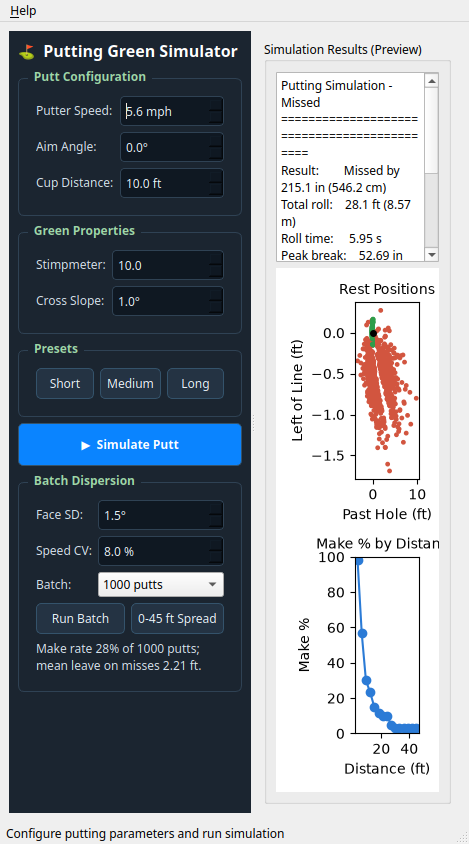
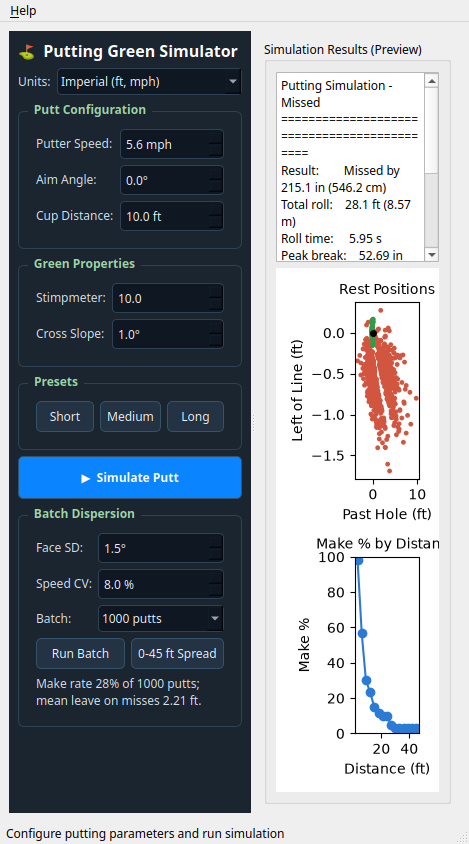
feat(putting): replot batch results on a units change; refresh screenshots (#14459)
Switching units left the batch scatter and spread in the old units until
the next run. BatchPanel keeps the last report per chart and redraw()
replots them (a running job redraws on completion); set_unit_system calls
it. Screenshots retaken on main with the #14457 units selector, plus
before grabs (panel absent, as on main).

Part of #14459

Changed region(s): [[0.0299, 0.0616, 0.5373, 0.8626]]

diff --git a/src/tools/putting_green_gui/_batch_panel.py b/src/tools/putting_green_gui/_batch_panel.py
@@ -1,12 +1,10 @@
 """Batch dispersion panel for the Putting Green Simulator (#14459, epic #14452).
 
-Runs the shared dispersion service
-(:mod:`src.shared.python.putting_analytics.service_dispersion`) on the green
-the user has dialled in: a batch of 40/100/1000 putts with stroke noise
-(face-angle SD and speed CV) plotted as rest positions around the hole, and
-the 3-45 ft make-% spread. No physics lives here; the panel turns the
-widget's :class:`PuttConfig` into service arguments and draws the answer in
-the user's chosen units.
+Runs :mod:`src.shared.python.putting_analytics.service_dispersion` on the
+dialled green: a 40/100/1000-putt batch with stroke noise (face SD, speed CV)
+plotted around the hole, and the 3-45 ft make-% spread. No physics lives
+here; the panel maps :class:`PuttConfig` to service arguments and plots the
+answer in the user's units.
 """
 
 from __future__ import annotations
@@ -89,10 +87,9 @@ class _Job(QRunnable):
 class BatchPanel(QGroupBox):
     """Stroke-noise inputs, batch and spread buttons, and the result plot.
 
-    ``config`` returns the widget's current putt; ``units`` its display units.
-    The buttons run the service on a worker thread (:meth:`start_batch`,
-    :meth:`start_spread`); :meth:`run_batch` and :meth:`run_spread` are the
-    synchronous equivalents. The plot canvas is :attr:`canvas`.
+    ``config`` returns the current putt, ``units`` the display units. Buttons
+    run the service on a worker (:meth:`start_batch`, :meth:`start_spread`);
+    :meth:`run_batch`/:meth:`run_spread` are synchronous; plots: :attr:`canvas`.
     """
 
     def __init__(
@@ -140,7 +137,7 @@ class BatchPanel(QGroupBox):
         self.canvas.setMinimumSize(160, 220)
         self.canvas.installEventFilter(self)
         self._stacked = False
-        self._spread: list[tuple[float, float]] = []
+        self._shown: dict[str, dict[str, Any]] = {}  # last report per chart
 
     @property
     def size_combo(self) -> QComboBox:
@@ -190,6 +187,7 @@ class BatchPanel(QGroupBox):
     def show_batch(self, report: dict[str, Any]) -> None:
         """Plot a dispersion report's rest positions and summarise it."""
         self._set_busy(False)
+        self._shown["batch"] = report
         scale, unit = self._length_scale()
         ax = self._scatter_ax
         ax.clear()
@@ -212,9 +210,7 @@ class BatchPanel(QGroupBox):
     def show_spread(self, report: dict[str, Any]) -> None:
         """Plot a make-spread report's make % against distance."""
         self._set_busy(False)
-        self._spread = list(
-            zip(report["distances_ft"], report["make_rate"], strict=True)
-        )
+        self._shown["spread"] = report
         scale, unit = self._length_scale()
         ax = self._spread_ax
         ax.clear()
@@ -229,6 +225,12 @@ class BatchPanel(QGroupBox):
         ax.set_ylim(0, 100)
         ax.set_title("Make % by Distance", fontsize=10)
         self.canvas.draw_idle()
+
+    def redraw(self) -> None:
+        """Replot the last results in the current units; a running job redraws."""
+        if not self.is_busy():
+            for kind, report in list(self._shown.items()):
+                (self.show_batch if kind == "batch" else self.show_spread)(report)
 
     def eventFilter(self, obj: QObject | None, event: QEvent | None) -> bool:
         if obj is self.canvas and event is not None:
@@ -266,7 +268,8 @@ class BatchPanel(QGroupBox):
         return [float(x) for x in offsets[:, 0]]
 
     def spread_points(self) -> list[tuple[float, float]]:
-        return list(self._spread)
+        report = self._shown.get("spread", {"distances_ft": [], "make_rate": []})
+        return list(zip(report["distances_ft"], report["make_rate"], strict=True))
 
     def _start(
         self,

diff --git a/tests/tools/putting_green_gui/test_batch_panel.py b/tests/tools/putting_green_gui/test_batch_panel.py
@@ -79,8 +79,7 @@ def test_flat_green_has_no_fall_direction() -> None:
 
 def test_panel_offers_the_studio_batch_sizes(panel: BatchPanel) -> None:
     combo = panel.size_combo
-    assert [combo.itemData(i) for i in range(combo.count())] == list(BATCH_SIZES)
-    assert BATCH_SIZES == (40, 100, 1000)
+    assert [combo.itemData(i) for i in range(combo.count())] == [40, 100, 1000]
 
 
 def test_batch_shows_the_service_answer(panel: BatchPanel) -> None:
@@ -99,6 +98,16 @@ def test_scatter_is_drawn_in_the_chosen_units(qapp: QApplication) -> None:
         xs = p.scatter_x()
         scale = 1.0 if system == UnitSystem.IMPERIAL else _FT_M
         assert xs[0] == pytest.approx(report["rest_x_ft"][0] * scale)
+
+
+def test_a_unit_change_replots_the_last_batch(qapp: QApplication) -> None:
+    units = [UnitSystem.IMPERIAL]
+    p = BatchPanel(lambda: _CONFIG, lambda: units[0])
+    p.size_combo.setCurrentIndex(0)
+    p.run_batch()
+    units[0] = UnitSystem.METRIC
+    p.redraw()
+    assert p.scatter_axis_label().endswith("(m)")
 
 
 def test_spread_plots_the_service_make_rates(panel: BatchPanel) -> None:

diff --git a/src/tools/putting_green_gui/gui.py b/src/tools/putting_green_gui/gui.py
@@ -161,6 +161,7 @@ class PuttingGreenWidget(QWidget):
             self._results_text.setPlainText(
                 _format_metrics(self._scene, self._unit_system)
             )
+        self._batch_panel.redraw()
 
     def _sync_units_combo(self) -> None:
         """Show the active unit system without re-triggering a user choice."""

diff --git a/docs/help/putting_green.md b/docs/help/putting_green.md
@@ -73,10 +73,8 @@ with a message that names the missing module. The 3D view needs the optional
   green you have dialled in (distance, stimp, cross slope). The rest positions
   are plotted around the hole (green holed, red missed) with the make rate and
   mean leave on misses. **0-45 ft Spread** plots the make % from 3 to 45 ft on
-  the same green. Both come from the shared skill roll model through the
-  dispersion service, the same numbers the web page and studio show. Studies
-  run in the background and take seconds; the spread plans one line fan per
-  distance, so it is the slower of the two.
+  the same green. Both come from the shared dispersion service and run in the
+  background; changing units replots them.
 
   ![Batch dispersion at 1280 px](images/putting_dispersion_imperial_1280.png)
 
